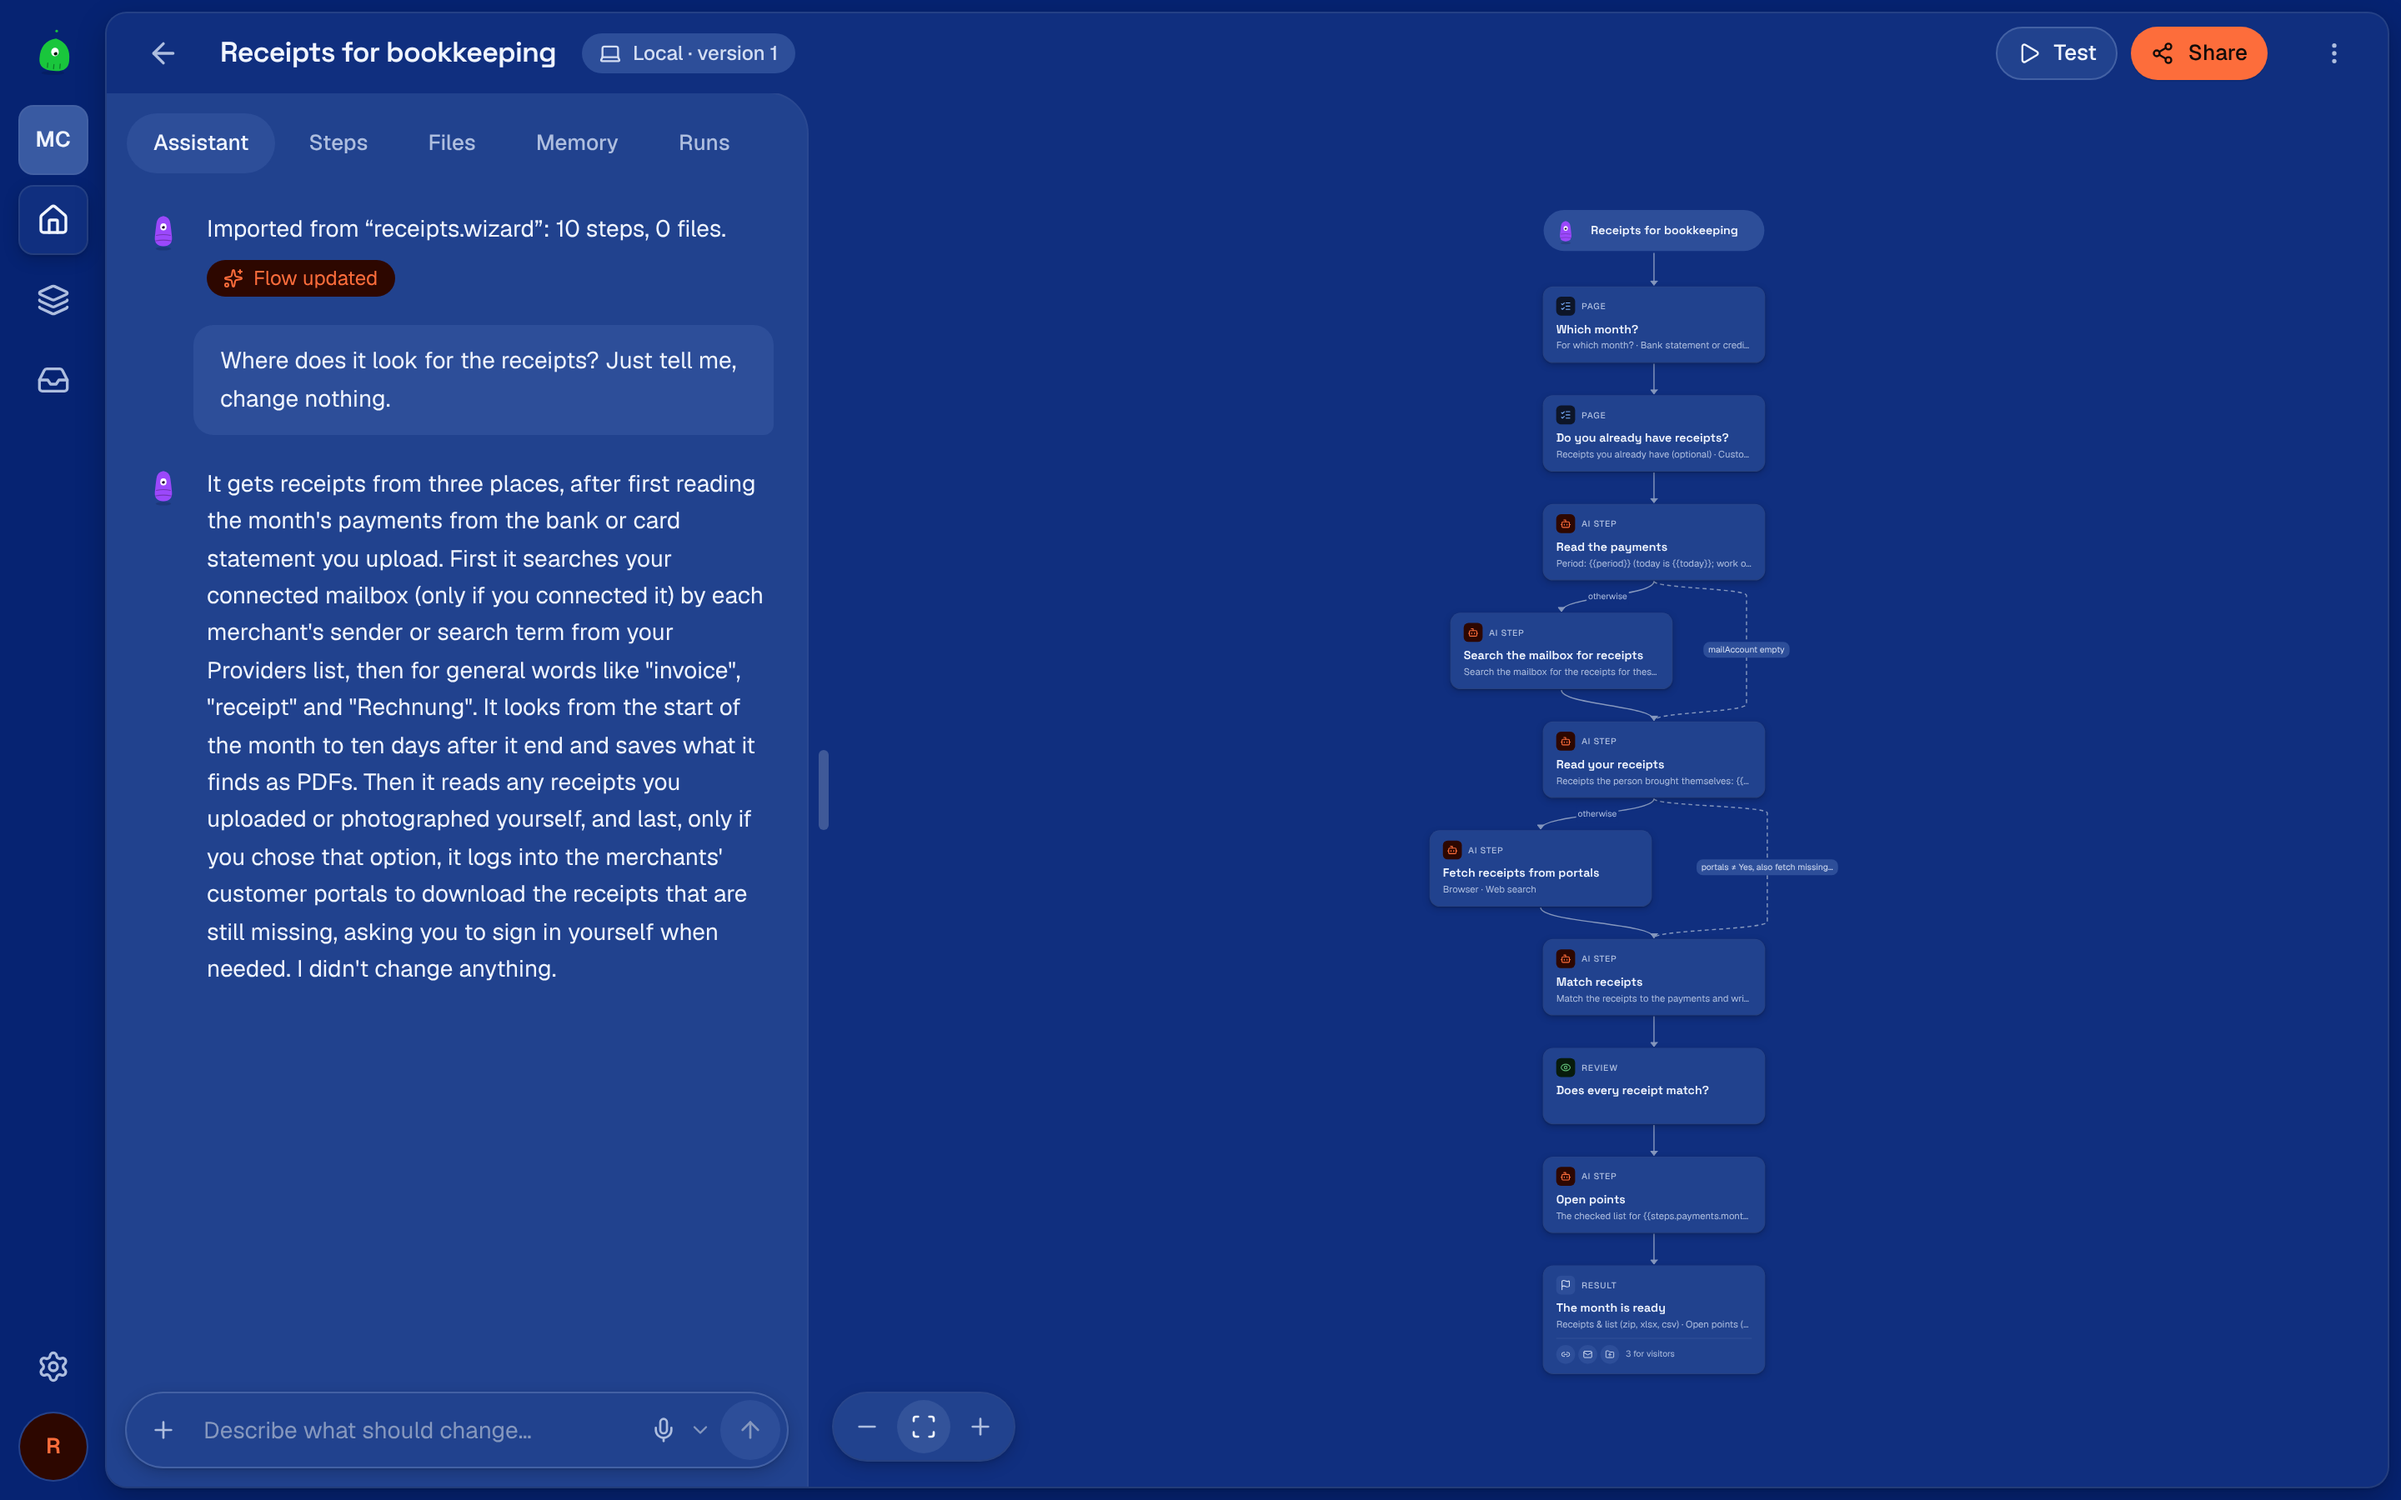
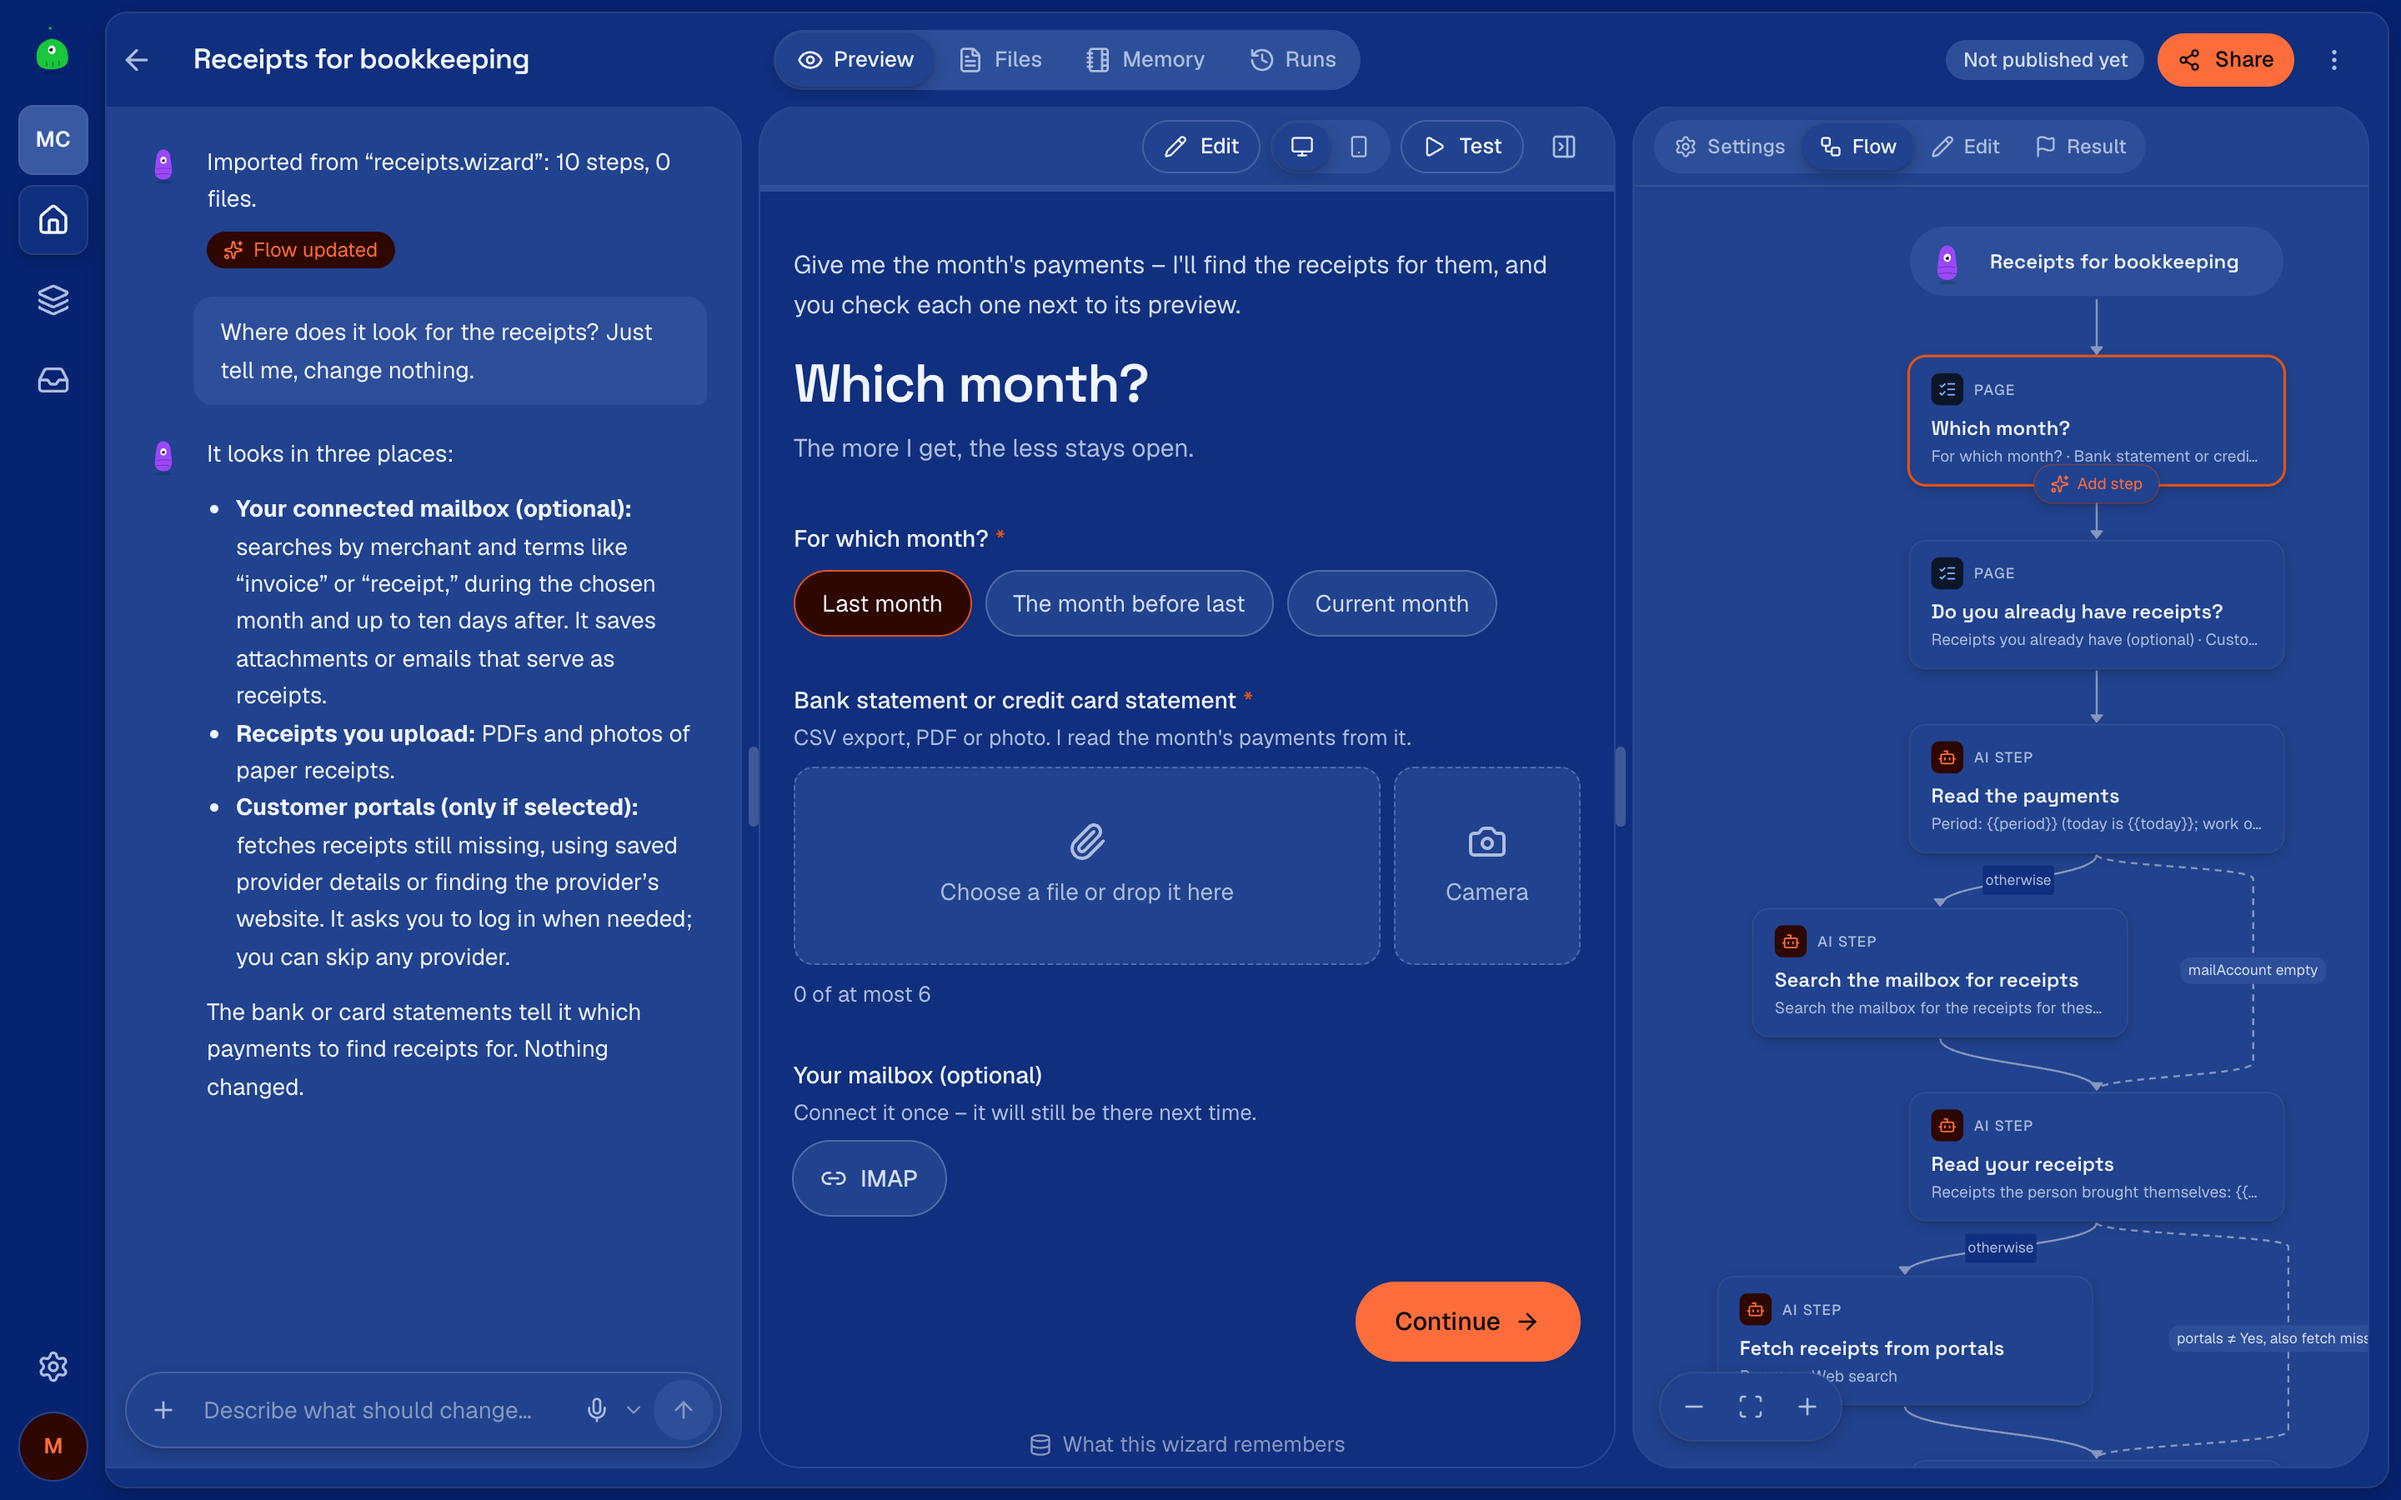
docs: the README's studio picture and the assistant's words for the new editor

diff --git a/apps/runtime/src/assistant/primer.ts b/apps/runtime/src/assistant/primer.ts
@@ -7,7 +7,7 @@ export const PRIMER = `ENGENTY WIZARDS IN ONE PAGE
 engenty wizards turns something done again and again into a wizard: pages that ask what it needs, AI steps that do the work, and a link to share. It runs on the person's own computer (a "local install" at ~/.engenty/wizards, studio at /studio) or in the cloud at engenty.ai with an account.
 
 Words
-- Studio: where wizards are built. Home lists the space's wizards; the editor (/edit/<id>) shows a wizard's flow as a diagram with its own chat (the architect) that builds and changes it.
+- Studio: where wizards are built. Home lists the space's wizards; the editor (/edit/<id>) has its own chat (the architect) that builds and changes the wizard, a preview of each step as people see it with the steps in a row above it, and beside it the flow as a diagram and the editor of the step chosen.
 - Wizard: a flow of steps a person walks through on a link. Step kinds: a page (fields to fill in), an AI step (an agent with tools: web search, reading files, writing documents, images, video, pages, other services), a review, and the result.
 - Run: one person going through a wizard once. Results lists every run that reached its result.
 - Space: what all wizards of a team know. Its page has four parts: Info & brand (title, about, logos, colours, assets, facts), Knowledge (pages, tables and files the AI steps look things up in, kept apart by typed categories), Data (tables and pages the wizards keep) and Results (finished runs).

diff --git a/apps/web/src/lib/i18n.ts b/apps/web/src/lib/i18n.ts
@@ -835,7 +835,7 @@ const de: Record<Key, Line> = {
   "log.kind.info": "Info",
   "log.kind.error": "Fehler",
   "editor.chatHello":
-    "Beschreibe mir, was dein Wizard tun soll. Ich baue den Ablauf und zeige ihn dir als Diagramm.",
+    "Beschreibe mir, was dein Wizard tun soll. Ich baue ihn, und du siehst ihn rechts in der Vorschau.",
   "shareRun.button": "Teilen",
   "shareRun.title": "Ergebnis teilen",
   "shareRun.email": "E-Mail",
@@ -2993,7 +2993,7 @@ const en = {
   "log.kind.info": "Info",
   "log.kind.error": "Error",
   "editor.chatHello":
-    "Tell me what your wizard should do. I’ll build the flow and show it to you as a diagram.",
+    "Tell me what your wizard should do. I’ll build it, and you see it in the preview on the right.",
   "shareRun.button": "Share",
   "shareRun.title": "Share result",
   "shareRun.email": "Email",

diff --git a/README.md b/README.md
@@ -32,10 +32,10 @@
 
 ## How it looks
 
-The studio: the conversation that changes a wizard, next to its steps as a flow with its branches.
+The studio: the conversation that changes a wizard, the preview of each page as people see it, and its steps as a flow with its branches.
 
 <p align="center">
-  <img src="docs/assets/studio.png" alt="The studio of engenty wizards: the assistant explains where a wizard that collects a month's receipts for bookkeeping looks for them; beside it the wizard's flow – two pages of questions, AI steps that branch to the mailbox and to customer portals, a review and the result">
+  <img src="docs/assets/studio.png" alt="The studio of engenty wizards: on the left the assistant explains where a wizard that collects a month's receipts for bookkeeping looks for them; in the middle the preview of its first page, which month and which bank statement; on the right the wizard's flow – two pages of questions, then AI steps that branch to the mailbox and to customer portals">
 </p>
 
 A wizard in use: it asks on one page, then on the next, and ends with the result to download or share.
